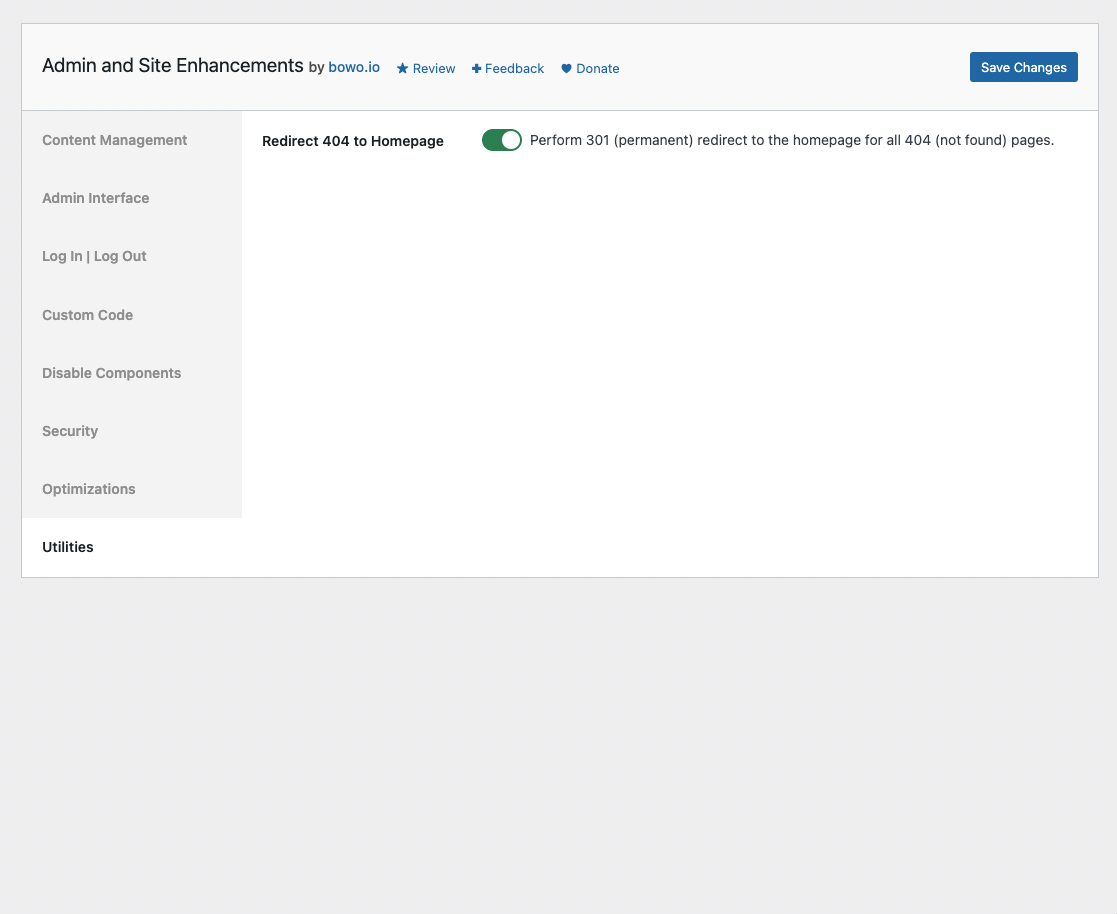
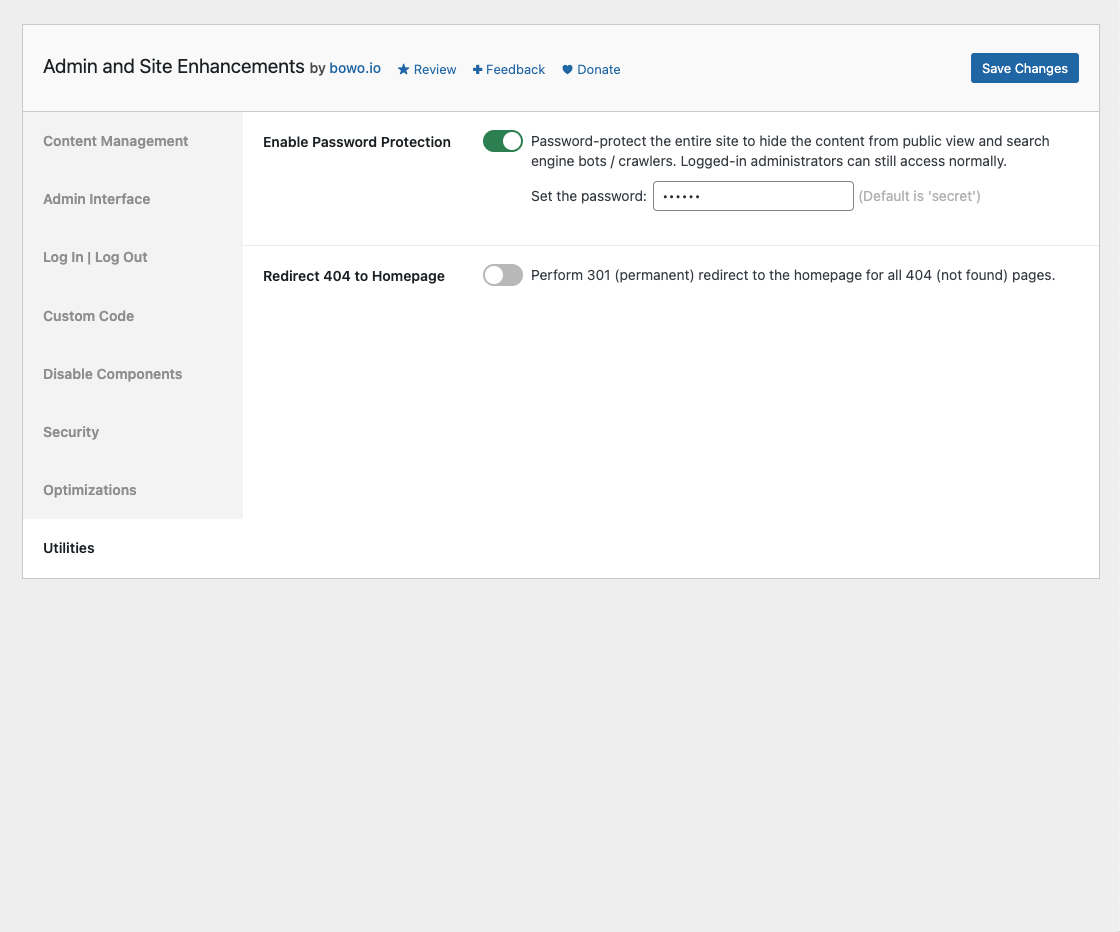
v4.1.0 release

diff --git a/admin-site-enhancements.php b/admin-site-enhancements.php
@@ -4,7 +4,7 @@
  * Plugin Name:       Admin and Site Enhancements
  * Plugin URI:        https://wordpress.org/plugins/admin-site-enhancements/
  * Description:       Easily enable enhancements and features that usually require multiple plugins.
- * Version:           4.0.1
+ * Version:           4.1.0
  * Author:            Bowo
  * Author URI:        https://bowo.io
  * License:           GPL-2.0+
@@ -18,7 +18,7 @@ if ( ! defined( 'ABSPATH' ) ) {
 	exit;
 }
 
-define( 'ASENHA_VERSION', '4.0.1' );
+define( 'ASENHA_VERSION', '4.1.0' );
 define( 'ASENHA_ID', 'asenha' );
 define( 'ASENHA_SLUG', 'admin-site-enhancements' );
 define( 'ASENHA_SLUG_U', 'admin_site_enhancements' );

diff --git a/README.md b/README.md
@@ -5,7 +5,7 @@ Donate link: https://paypal.me/qriouslad
 Tags: enhancements, tweaks, optimizations, tools  
 Requires at least: 4.6  
 Tested up to: 6.1.1  
-Stable tag: 4.0.1  
+Stable tag: 4.1.0  
 Requires PHP: 5.6  
 License: GPLv2 or later  
 License URI: http://www.gnu.org/licenses/gpl-2.0.html
@@ -83,6 +83,7 @@ Admin and Site Enhancements helps you to easily enhance various admin workflows 
 
 ### Utilities
 
+* **Enable Password Protection**. Password-protect the entire site to hide the content from public view and search engine bots / crawlers. Logged-in administrators can still access normally.
 * **Redirect 404 to Homepage**. Perform 301 (permanent) redirect to the homepage for all 404 (not found) pages.
 
 Admin and Site Enhancements will include more enhancements, tweaks and useful features in future versions. Please [give feedback](https://wordpress.org/support/plugin/admin-site-enhancements/) on must-have plugins or code snippets you enable on sites that you manage, and the functionalities will be considered for inclusion as well.
@@ -128,6 +129,10 @@ Admin and Site Enhancements will include more enhancements, tweaks and useful fe
 Hoping that this is useful in reducing the number of plugins we install the first time we set up a site.
 
 ## Changelog
+
+### 4.1.0 (2023.01.16)
+
+* **[ADDED] Utilities >> Enable Password Protection**. Password-protect the entire site to hide the content from public view and search engine bots / crawlers. Logged-in administrators can still access normally.
 
 ### 4.0.1 (2023.01.12)
 
